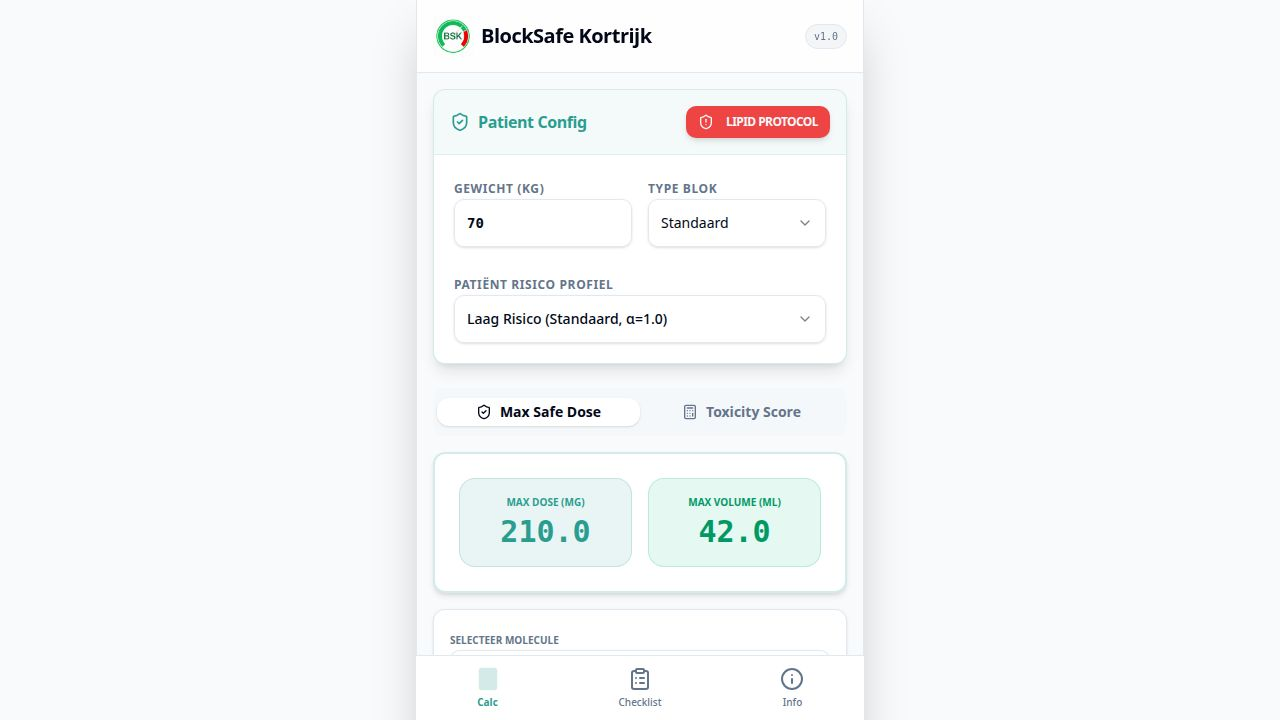
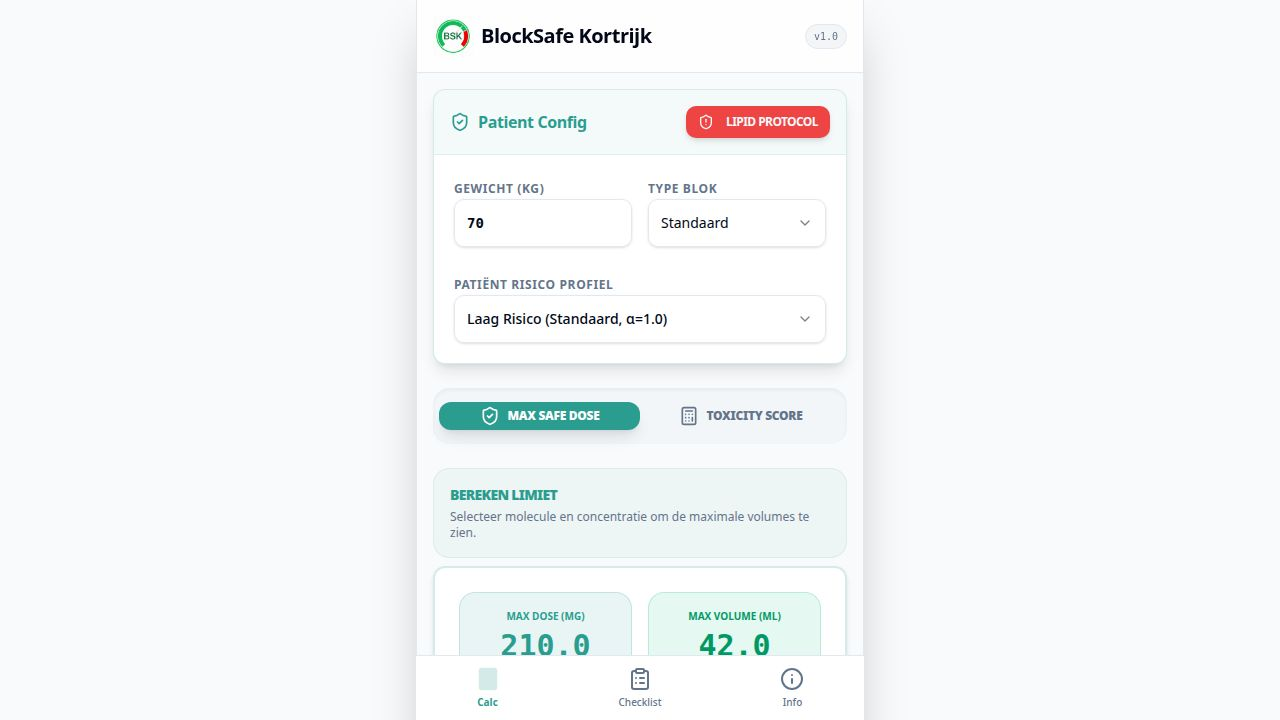
Remove numbering and step indicators from mode selection
Update TabsTrigger and TabsContent components to remove numerical prefixes (e.g., "1. ", "2. ") and step indicators (e.g., "Stap 1:", "Stap 2:") from mode labels and descriptions within the calculator page.

Replit-Commit-Author: Agent
Replit-Commit-Session-Id: 1557b132-d0cf-458b-b7c0-3293208a50bb
Replit-Commit-Checkpoint-Type: full_checkpoint
Replit-Commit-Event-Id: 09ac8323-c28c-4557-9eb6-f8ac628c746c
Replit-Commit-Screenshot-Url: https://storage.googleapis.com/screenshot-production-us-central1/32a22207-c12f-4b0e-8297-c87fbe657f41/1557b132-d0cf-458b-b7c0-3293208a50bb/Prfv5uV
Replit-Helium-Checkpoint-Created: true

diff --git a/client/src/pages/calculator.tsx b/client/src/pages/calculator.tsx
@@ -166,19 +166,19 @@ export default function CalculatorPage() {
             value="safe-dose" 
             className="rounded-xl data-[state=active]:bg-primary data-[state=active]:text-primary-foreground data-[state=active]:shadow-lg transition-all duration-300 font-black uppercase tracking-tight gap-2 text-xs"
           >
-            <ShieldCheck className="h-5 w-5" /> 1. Max Safe Dose
+            <ShieldCheck className="h-5 w-5" /> Max Safe Dose
           </TabsTrigger>
           <TabsTrigger 
             value="toxicity" 
             className="rounded-xl data-[state=active]:bg-amber-500 data-[state=active]:text-white data-[state=active]:shadow-lg transition-all duration-300 font-black uppercase tracking-tight gap-2 text-xs"
           >
-            <CalcIcon className="h-5 w-5" /> 2. Toxicity Score
+            <CalcIcon className="h-5 w-5" /> Toxicity Score
           </TabsTrigger>
         </TabsList>
 
         <TabsContent value="safe-dose" className="space-y-4 animate-in fade-in zoom-in-95 duration-300">
           <div className="bg-primary/5 border border-primary/10 rounded-2xl p-4 mb-2">
-            <h3 className="text-primary font-black uppercase tracking-tighter text-sm mb-1">Stap 1: Bereken Limiet</h3>
+            <h3 className="text-primary font-black uppercase tracking-tighter text-sm mb-1">Bereken Limiet</h3>
             <p className="text-xs text-muted-foreground">Selecteer molecule en concentratie om de maximale volumes te zien.</p>
           </div>
           <Card className="border-2 border-primary/20 shadow-md">
@@ -228,7 +228,7 @@ export default function CalculatorPage() {
 
         <TabsContent value="toxicity" className="space-y-6 animate-in fade-in zoom-in-95 duration-300">
           <div className="bg-amber-500/5 border border-amber-500/10 rounded-2xl p-4 mb-2">
-            <h3 className="text-amber-600 font-black uppercase tracking-tighter text-sm mb-1">Stap 2: Cumulatieve Check</h3>
+            <h3 className="text-amber-600 font-black uppercase tracking-tighter text-sm mb-1">Cumulatieve Check</h3>
             <p className="text-xs text-muted-foreground">Voeg toegediende middelen toe om de totale belasting te controleren.</p>
           </div>
           <Card className="relative overflow-hidden border-2 border-border">
